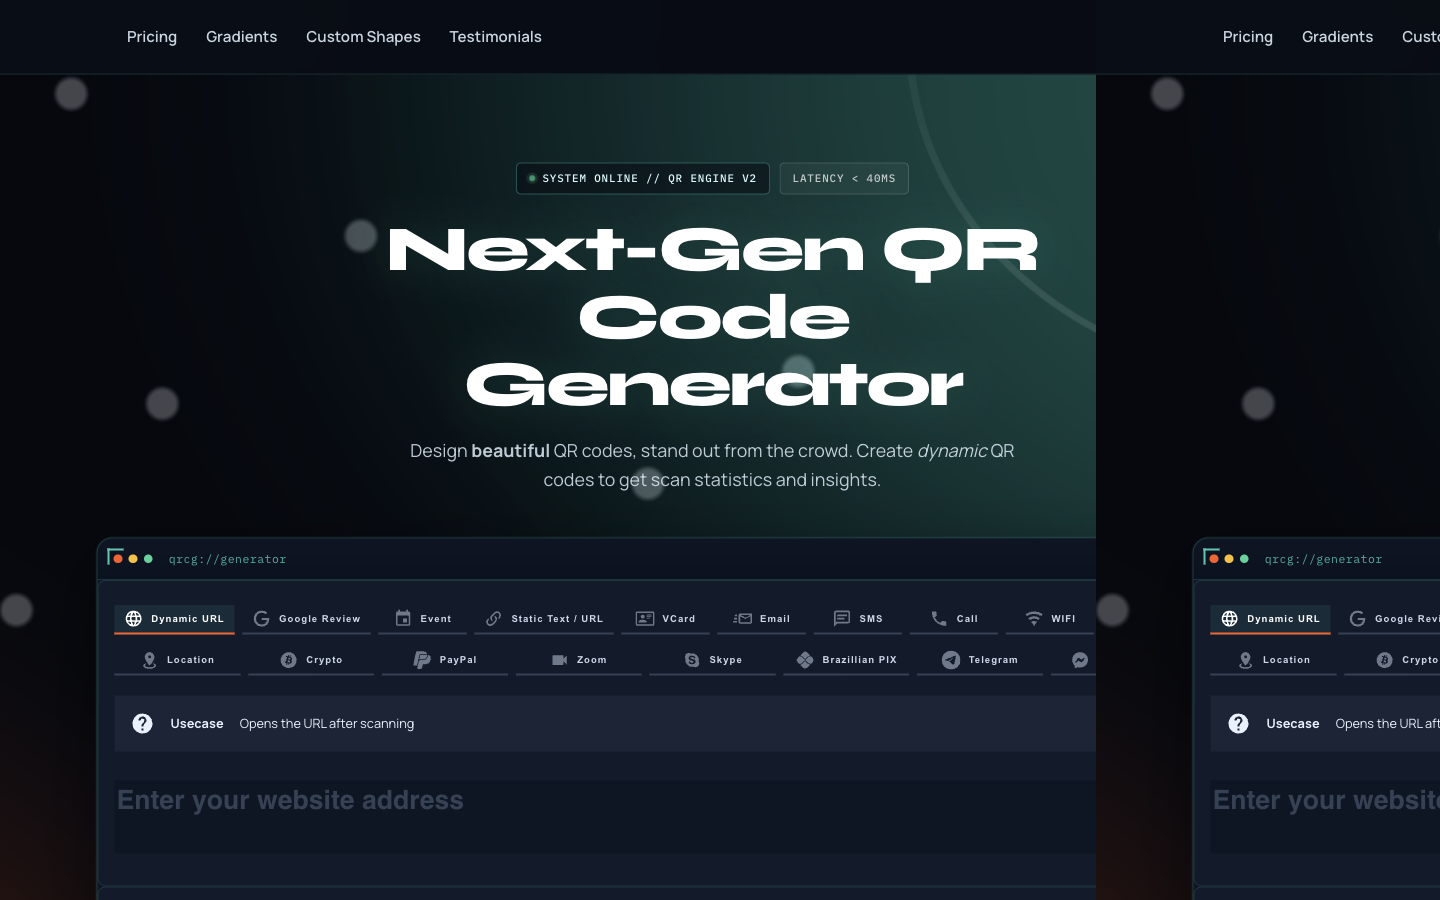
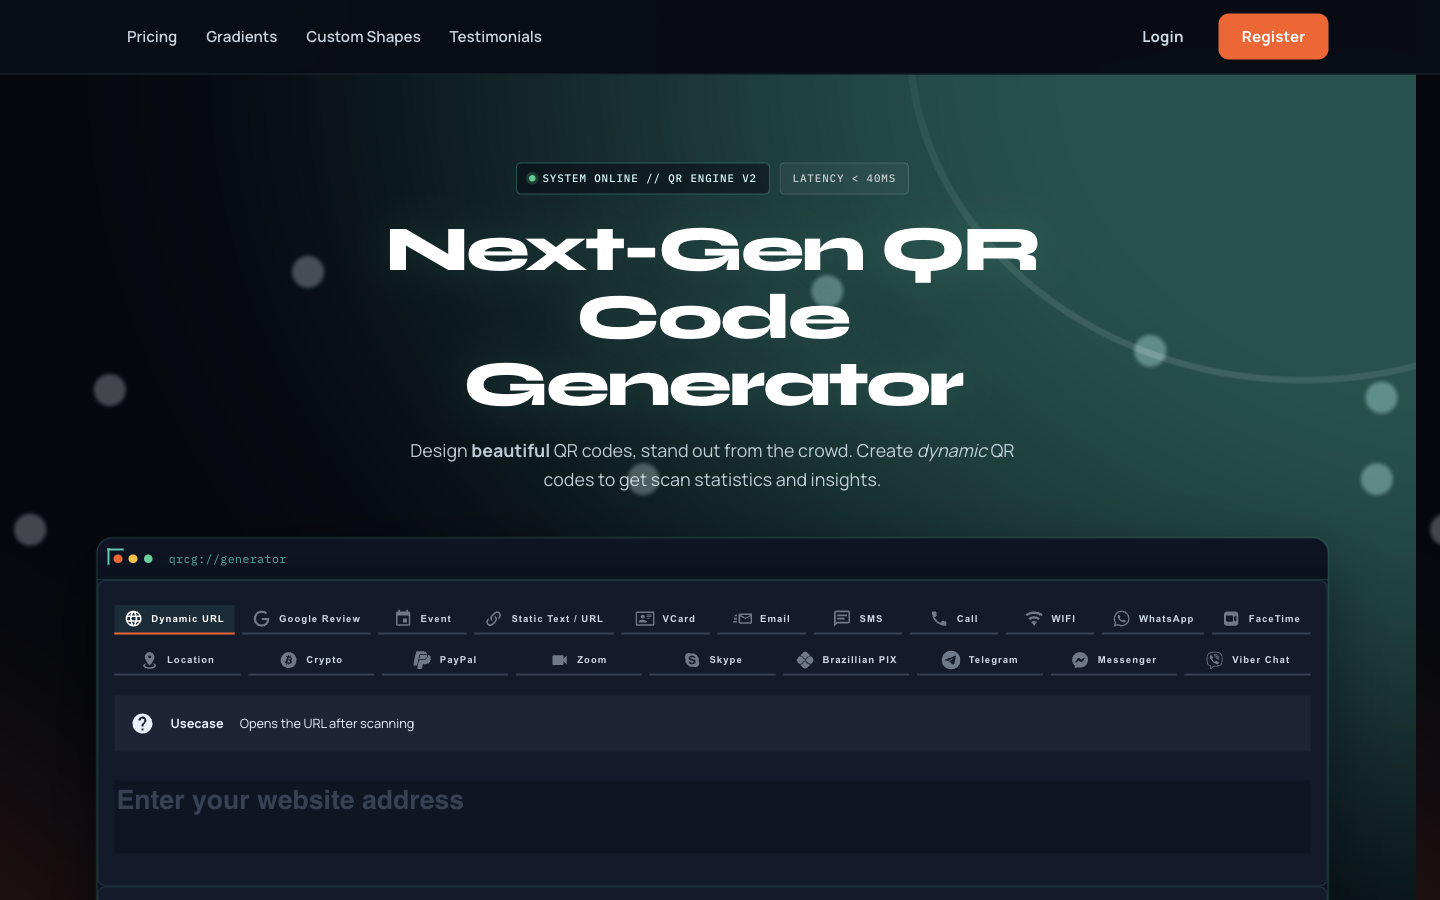
Replace broken repeating screenshots with clean full-width captures.

diff --git a/README.md b/README.md
@@ -14,10 +14,6 @@ It includes a dark, tech-focused marketing frontend and a production-style admin
 
 ![Frontend hero](docs/screenshots/frontend-hero.png)
 
-### Frontend — Full homepage
-
-![Frontend full page](docs/screenshots/frontend-full.png)
-
 ### Frontend — Gradients showcase
 
 ![Frontend gradients](docs/screenshots/frontend-gradients.png)
